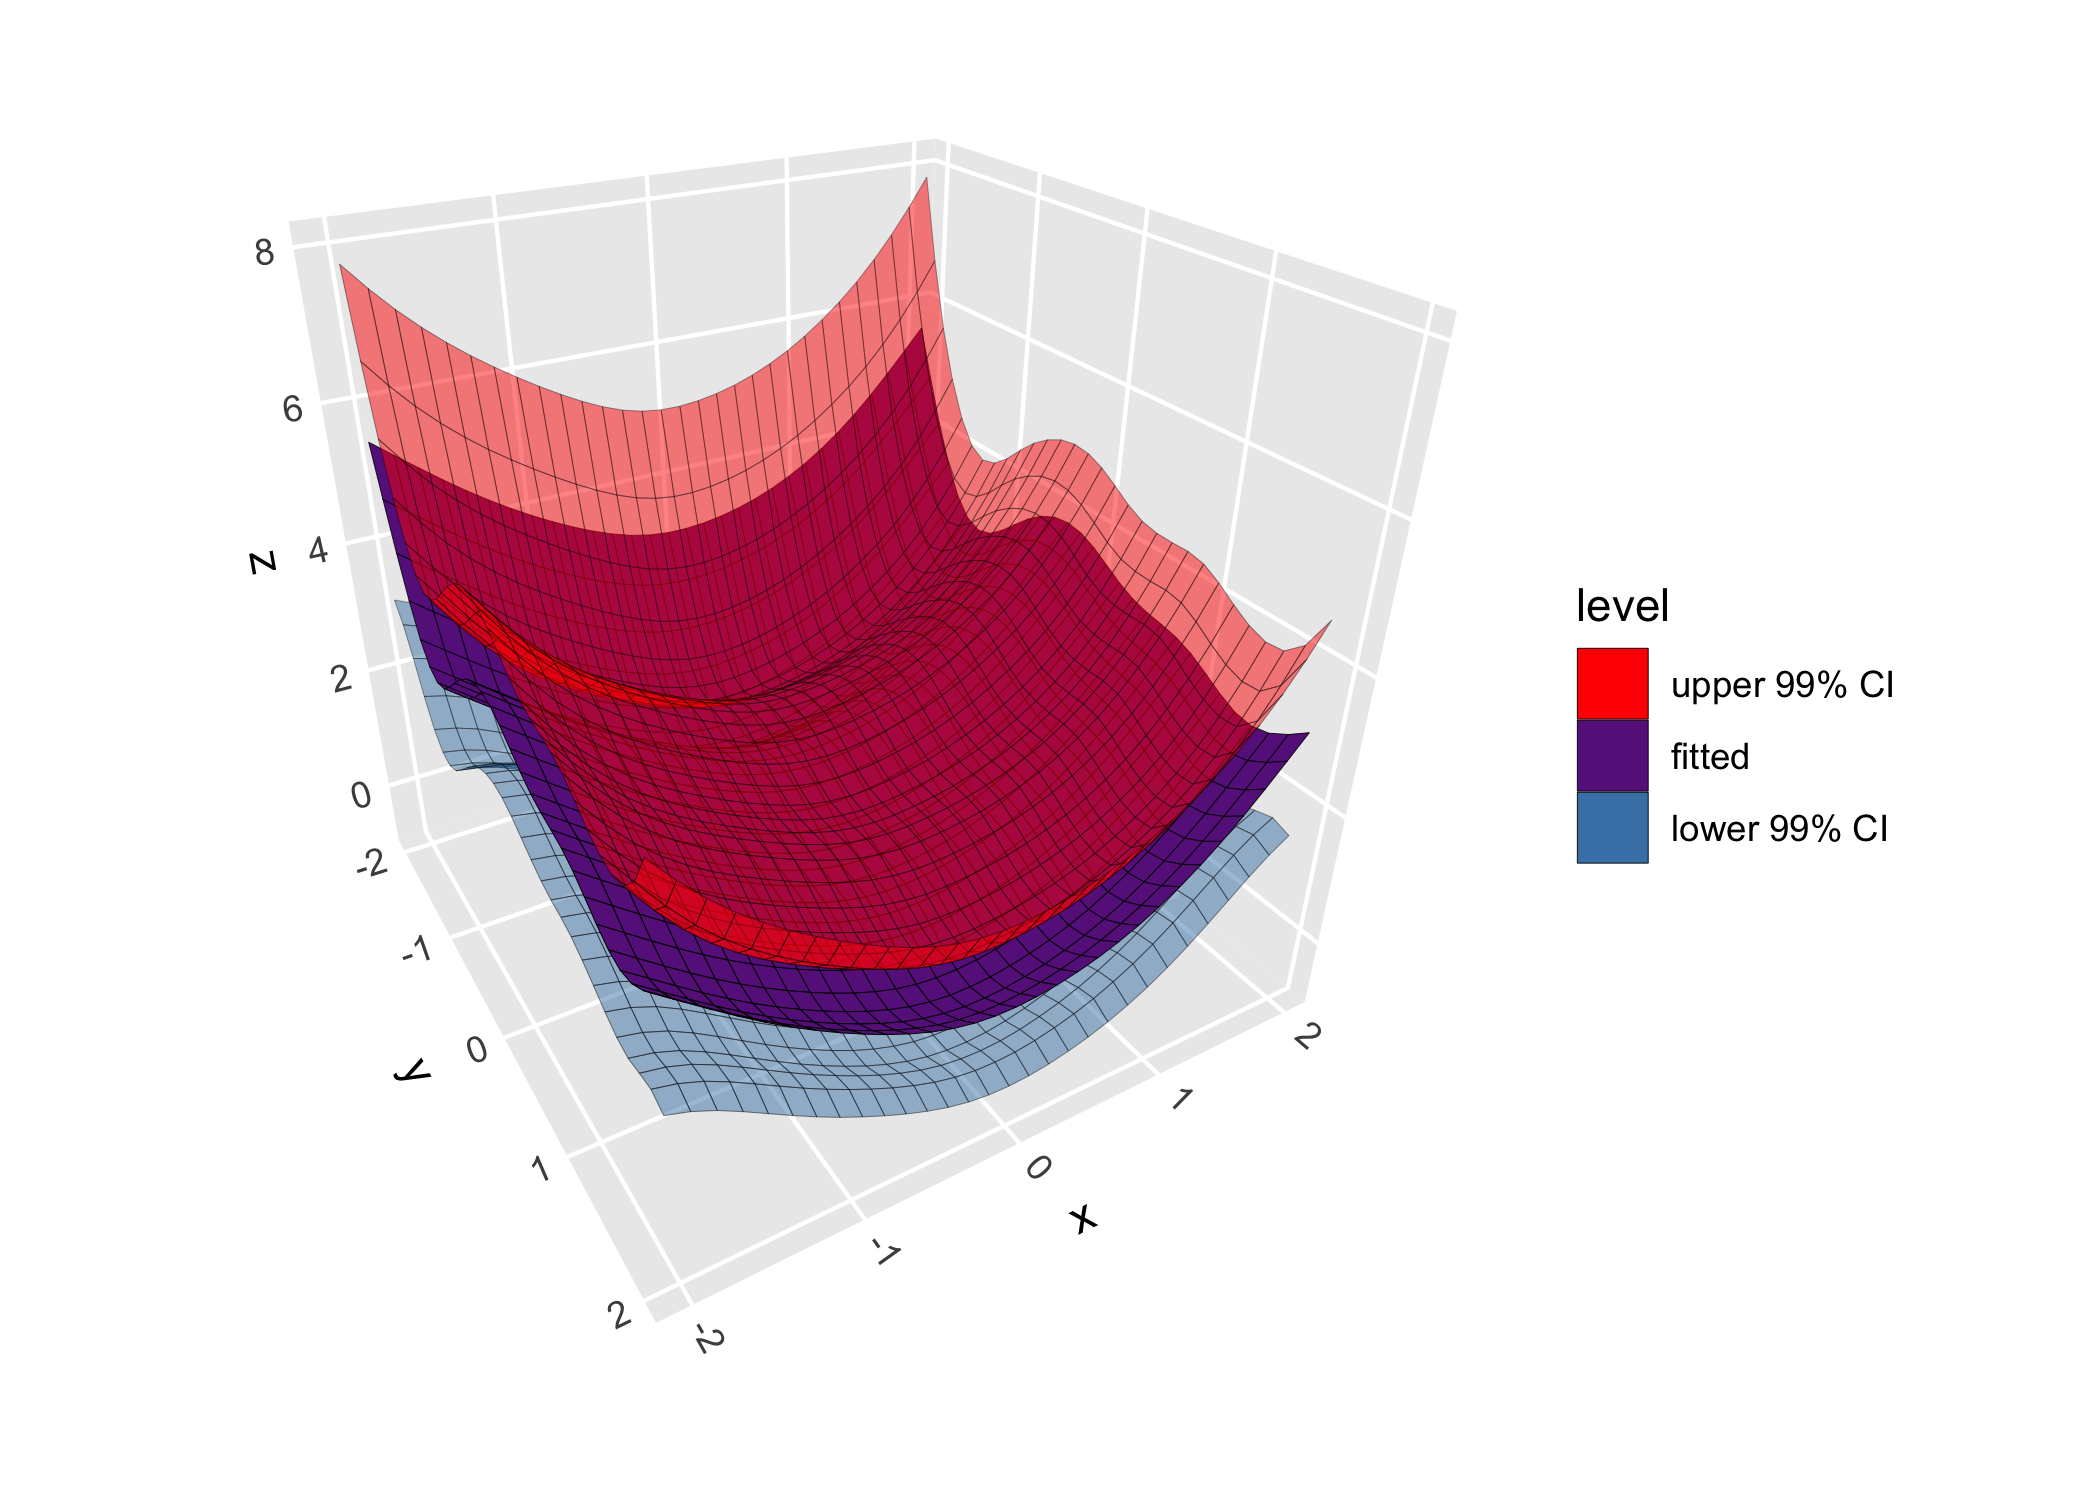
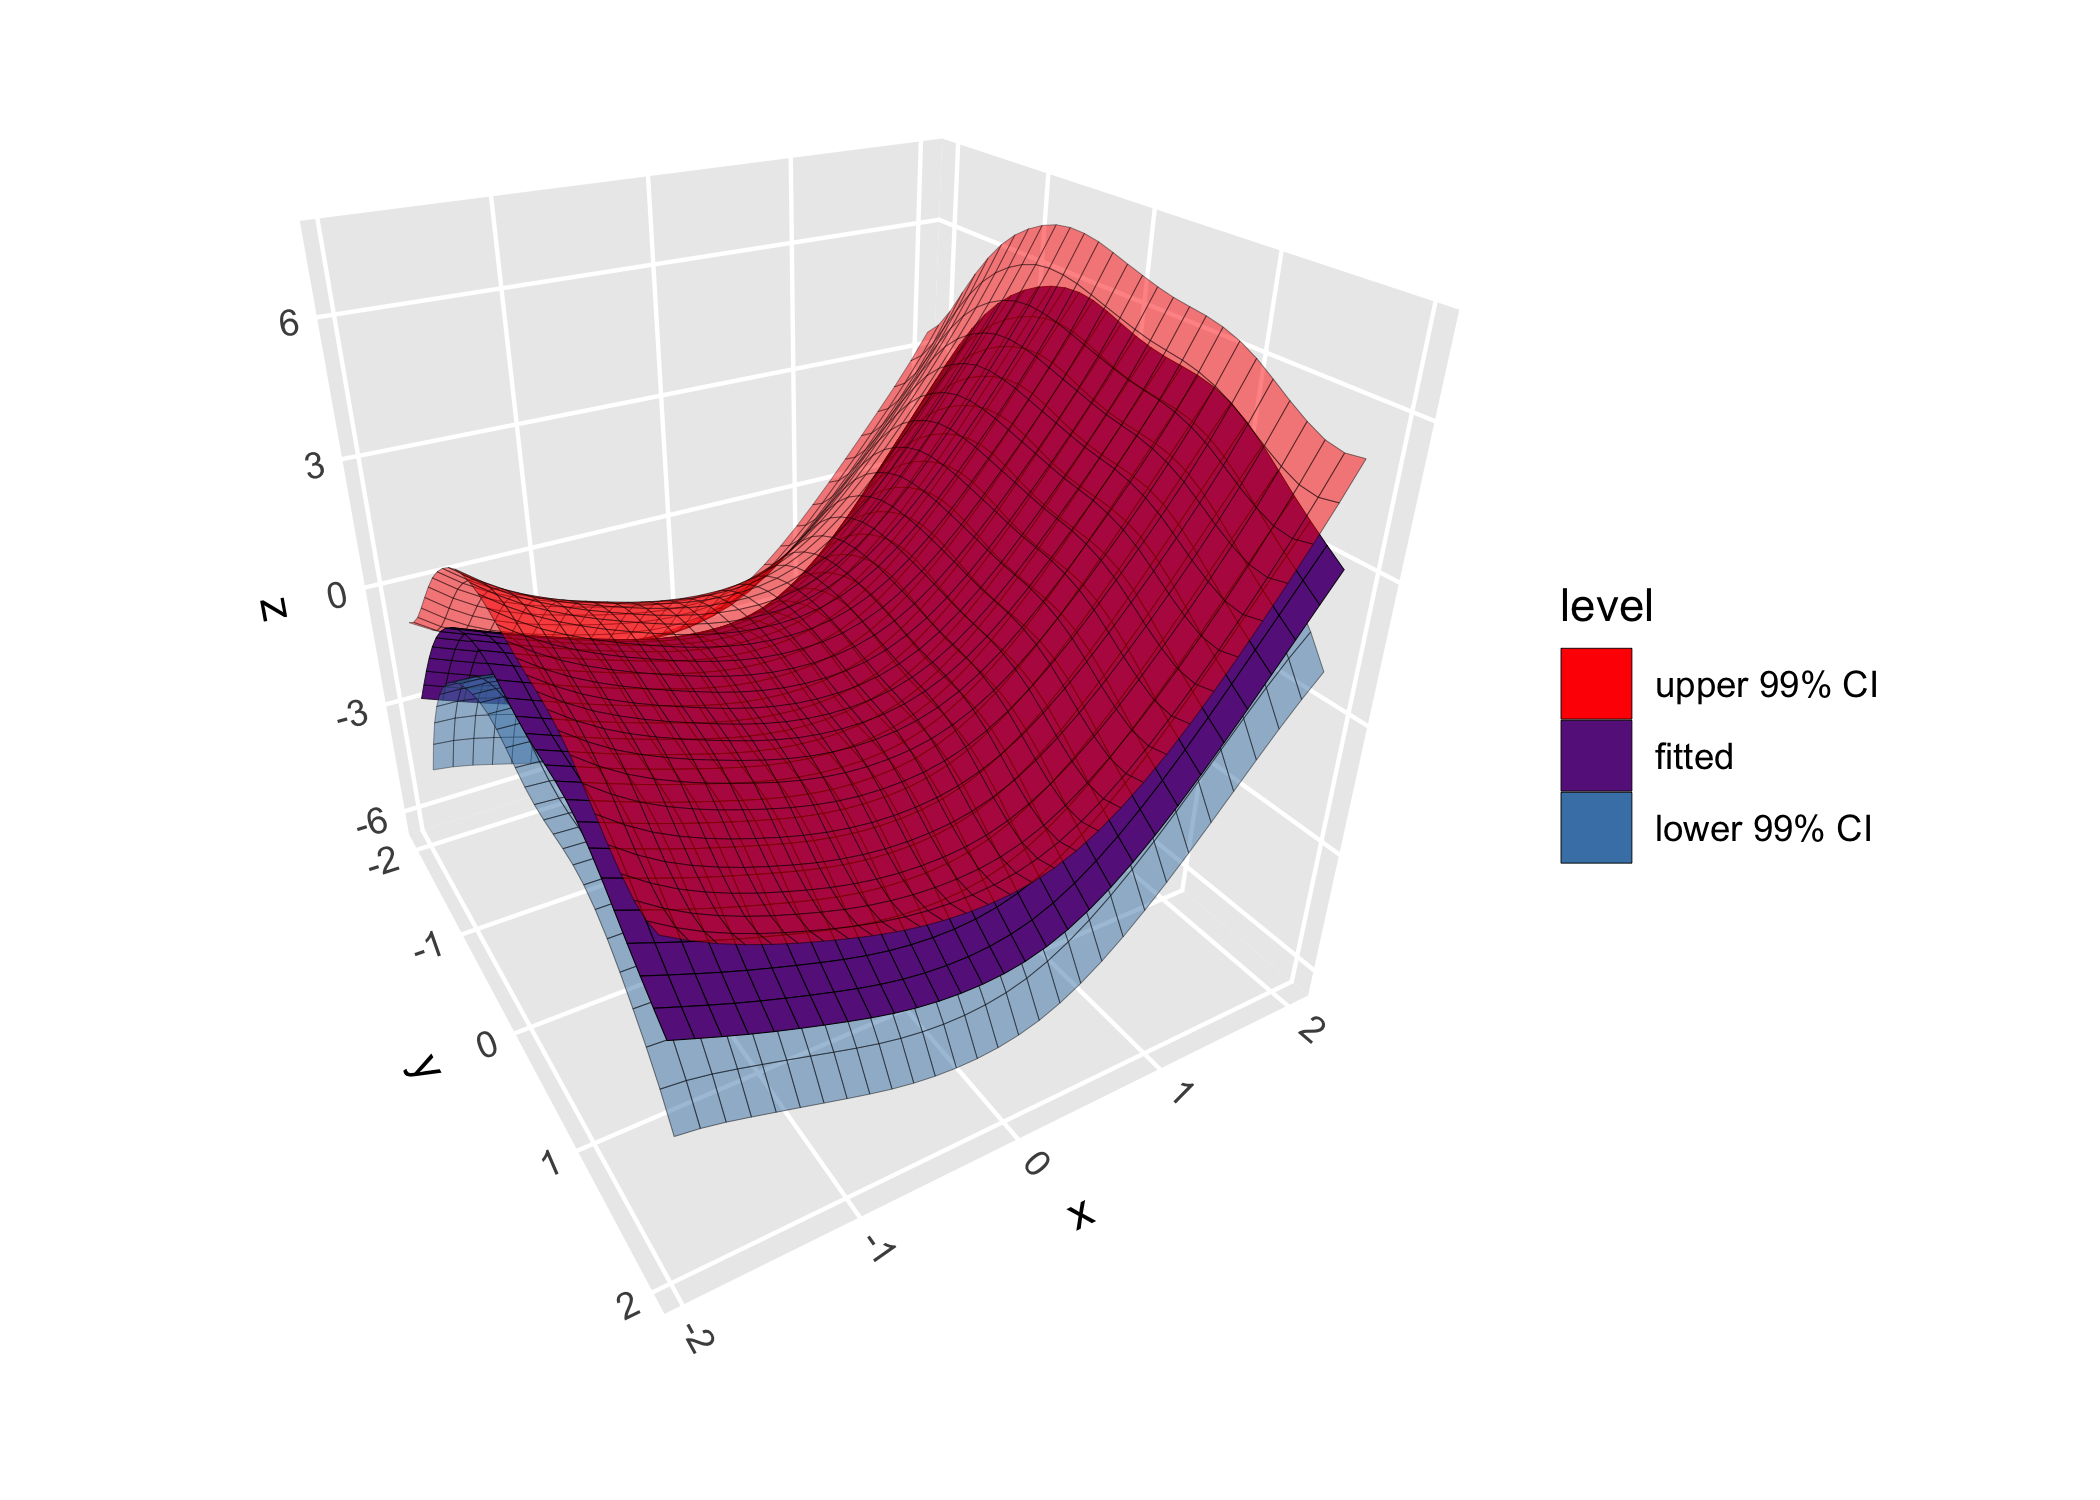
update readme

diff --git a/README.md b/README.md
@@ -6,20 +6,23 @@
 <!-- badges: start -->
 <!-- badges: end -->
 
-**ggcube** extends ggplot2 into three dimensions, providing a grammar of
-graphics for 3D data visualization. Create 3D scatter plots, surfaces,
-volumes, and complex layered visualizations using familiar ggplot2
-syntax with `aes(x, y, z)` and `coord_3d()`.
+**ggcube** is a ggplot2 extension for 3D data visualization. It helps
+you create 3D scatter plots, surfaces, volumes, and complex layered
+visualizations using familiar ggplot2 syntax with `aes(x, y, z)` and
+`coord_3d()`.
 
 The package provides a variety of 3D-specific layer functions to render
-surfaces, prisms, points, and paths in 3D. Users can control plot
-geometry with 3D projection parameters, can apply a range of 3D lighting
-models, and can mix 3D layers with 2D layers rendered on cube faces.
+surfaces, prisms, points, and paths in 3D. You can control plot geometry
+with 3D projection parameters, can apply a range of 3D lighting models,
+and can mix 3D layers with 2D layers rendered on cube faces.
 
 **ggcube** aims for seamless integration with ggplot2. Standard ggplot2
 features work as expected, including faceting, themes, scales, legends,
 and layering. In addition to the 3D-specific functions, it also works
 with many existing ggplot2 stats and geoms.
+
+This package is in development and has not yet been officially released.
+Bugs and breaking changes are not unlikely.
 
 ## Installation
 
@@ -33,7 +36,7 @@ devtools::install_github("matthewkling/ggcube")
 ## Quick start
 
 The essential ingredient of a ggcube plot is `coord_3d()`. Adding this
-to a standard ggplot, and providing a third (`z`) aesthetic variable
+to a standard ggplot, and providing a third (`z`) aesthetic variable,
 creates a 3D plot:
 
 ``` r
@@ -48,9 +51,9 @@ ggplot(mtcars, aes(mpg, wt, qsec, color = factor(cyl))) +
 
 <img src="man/figures/README-quickstart-1.png" width="100%" />
 
-### Surface functions
+### Surfaces
 
-- `stat_surface_3d()` renders surfaces based on existing grids data such
+- `stat_surface_3d()` renders surfaces based on existing grid data such
   as terrain data
 - `stat_smooth_3d()` fits statistical models to input data and
   visualizes fitted predictions and confidence intervals
@@ -65,15 +68,15 @@ Example: a fitted model surface using `stat_smooth_3d()`:
 ``` r
 # Generate scattered 3D data
 set.seed(123)
-d <- data.frame(x = runif(100, -2, 2),
-                y = runif(100, -2, 2))
-d$z <- abs(1 + d$x^2 - d$y^2 + rnorm(100, 0, 1))
+d <- data.frame(x = runif(50, -2, 2),
+                y = runif(50, -2, 2))
+d$z <- d$x + d$x^2 - d$y^2 + rnorm(50)
 
-# GAM fit with uncertainty layers
+# Plot GAM fit with uncertainty layers
 ggplot(d, aes(x, y, z)) + 
       stat_smooth_3d(aes(fill = after_stat(level)),
-                   method = "gam", fomula = z ~ te(x, y),
-                   se = TRUE, level = 0.99, color = "black") +
+                     method = "gam", fomula = z ~ te(x, y),
+                     se = TRUE, level = 0.99, color = "black") +
       scale_fill_manual(values = c("red", "darkorchid4", "steelblue")) +
       coord_3d()
 ```
@@ -85,7 +88,7 @@ Example: a terrain surface using `stat_function_3d()`:
 ``` r
 ggplot(mountain, aes(x, y, z)) +
       stat_surface_3d(aes(fill = z, color = z),
-                   light = lighting(direction = c(1, 0, 1), blend = "both")) +
+                      light = lighting(direction = c(1, 0, 1), blend = "both")) +
       scale_fill_viridis_c() + scale_color_viridis_c() +
       coord_3d(yaw = 130, ratio = c(2, 2, 1))
 ```
@@ -107,12 +110,12 @@ ggplot() +
 
 <img src="man/figures/README-functions-1.png" width="100%" />
 
-### Prism-type layers
+### Prisms
 
-- `stat_voxel_3d()` renders sparse 3D pixel data as rectangular prisms
-- `stat_pillar_3d()`
-- `stat_histogram_3d()` (forthcoming)
-- `stat_prism_3d()` (forthcoming)
+- `stat_voxel_3d()` renders 3D pixel data sparse arrays of cubes
+- `stat_pillar_3d()` produces 3D column charts
+- `stat_histogram_3d()` (in prep)
+- `stat_prism_3d()` (in prep)
 
 Example: a 3D bar chart using `stat_pillar_3d()`:
 
@@ -136,7 +139,7 @@ ggplot(data, aes(x, y, z1, zmin = z2, fill = z2 - z1)) +
 - `geom_point_3d()` creates 3D scatter plots with depth-scaled point
   sizes and options to include reference lines and reference points
   projecting 3D points onto 2D panel faces
-- `geom_path_3d()` (forthcoming)
+- `geom_path_3d()` (in prep)
 
 Example: A scatter plot with reference elements, using
 `geom_points_3d()`:
@@ -153,32 +156,61 @@ ggplot(mtcars, aes(mpg, wt, qsec, fill = factor(cyl))) +
 
 ### Lighting effects
 
-Realistic 3D shading with `lighting()`
+Lighting of surface and prism layers is controlled by providing a
+`lighting()` specification. Light can be mapped to an aesthetic variable
+using `after_stat(light)`, or can be used to `blend` highlights and
+shadows into otherwise-defined color and fill aesthetics.
+
+``` r
+ggplot(sphere_points, aes(x, y, z)) +
+      stat_hull_3d( # blend shadow lighting into solid color/fill
+            fill = "gray50", color = "gray50",
+            light = lighting(method = "direct",
+                             blend = "both", blend_mode = "hsl", 
+                             direction = c(-1, 0, 0))) +
+      stat_hull_3d( # blend shadow lighting into aesthetic color/fill
+            aes(x = x + 2.5, fill = z, color = z),
+            light = lighting(method = "diffuse",
+                             blend = "both", blend_mode = "hsl", 
+                             direction = c(1, 0, 0))) +
+      stat_hull_3d( # map discrete "quantized" lighting to viridis color scale
+            aes(x = x + 5, fill = after_stat(light), color = after_stat(light)),
+            light = lighting(quanta = 5, method = "diffuse")) +
+      stat_hull_3d( # map surface orientation to RGB color channels
+            aes(x = x + 7.5, 
+                fill = after_stat(light)),
+            light = lighting(method = "normal_rgb", 
+                             direction = c(-1, 1, -1))) +
+      coord_3d(scales = "fixed") +
+      scale_fill_viridis_c() +
+      scale_color_viridis_c() +
+      theme_dark() +
+      theme(legend.position = "none")
+```
+
+<img src="man/figures/README-lighting-1.png" width="100%" />
 
 ### Face projection
 
-`position_on_face()` for projecting layers onto cube faces
-
-### Seamless ggplot2 integration
-
-ggcube works with the complete ggplot2 ecosystem:
+3D and 2D layers can be mixed by using `position_on_face()` to project
+2D data onto cube faces.
 
 ``` r
-ggplot(iris, aes(Sepal.Length, Sepal.Width, Petal.Length,
-                 fill = Species, color = Species)) +
-      geom_point_3d() +
-      stat_hull_3d(alpha = 0.5, color = "black") +
-      labs(title = "3D Species Comparison") +
-      coord_3d(scales = "fixed") +
-      theme_light() +
-      facet_wrap(~Species)
+
+ggplot(iris, aes(Sepal.Length, Sepal.Width, Petal.Length, 
+                 color = Species, fill = Species)) +
+      stat_density_2d( # place 2D density plot on zmin face
+            position = position_on_face(faces = "zmin", axes = c("x", "y")),
+            geom = "polygon", alpha = .1, linewidth = .25) +
+      stat_hull_3d( # flatten 3D hull layer onto ymin face
+            position = position_on_face("ymin"), alpha = .5) +
+      stat_voxel_3d( # flatten 3D voxel onto xma face, to create 2D binned
+            aes(round(Sepal.Length), round(Sepal.Width), round(Petal.Length)),
+                    position = position_on_face("xmax"), alpha = .25) +
+      geom_point_3d( # 3D scatter plot
+            shape = 21, color = "black", stroke = .25) +
+      coord_3d() +
+      xlim(4, 8)
 ```
 
-<img src="man/figures/README-integration-1.png" width="100%" />
-
-## Learn more
-
-- **Function reference**: Complete documentation of all functions
-- **Getting started**: Introduction to 3D plotting concepts  
-- **Gallery**: Examples showcasing different visualization types
-- **Advanced topics**: Lighting, projections, and complex layering
+<img src="man/figures/README-position-1.png" width="100%" />
